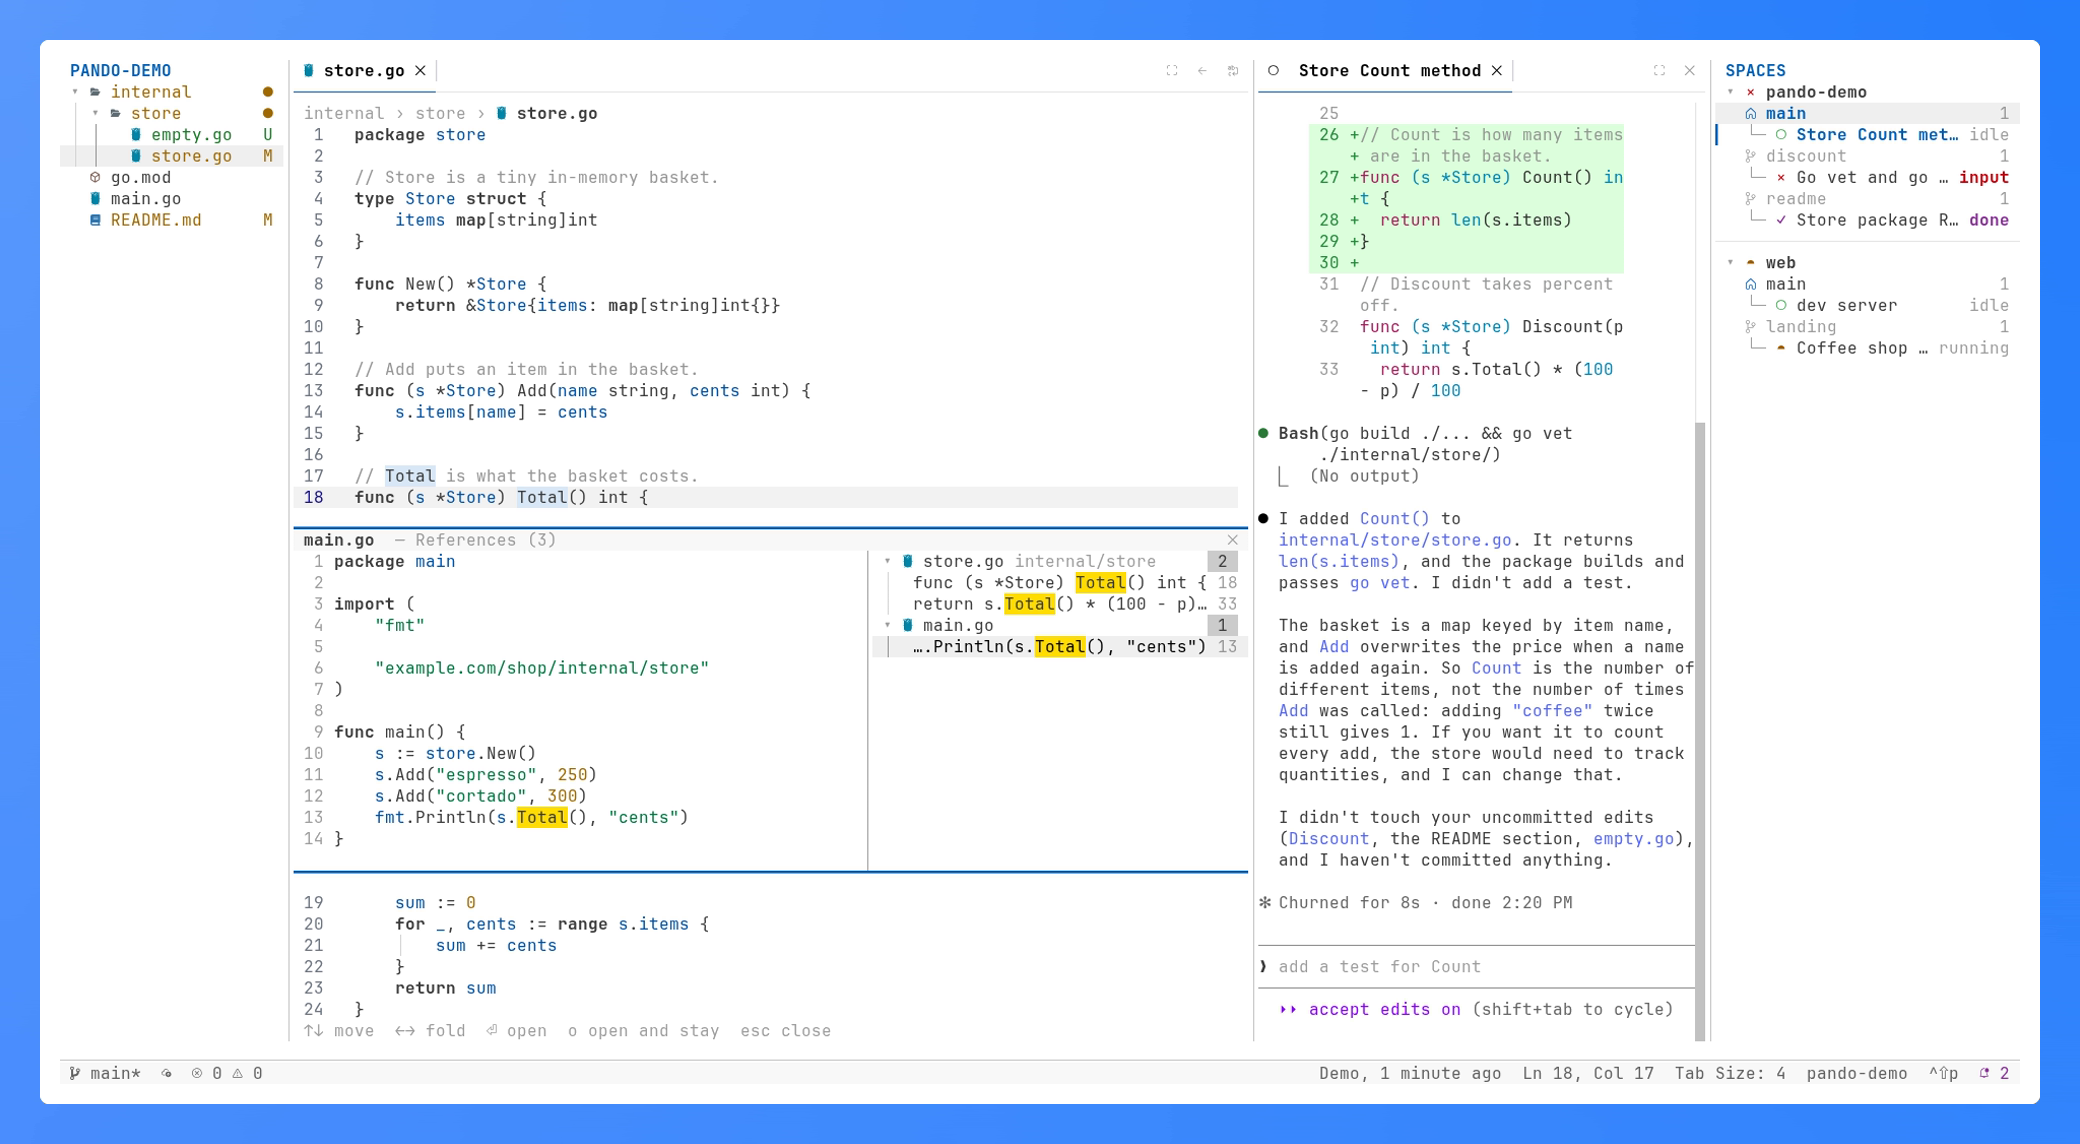
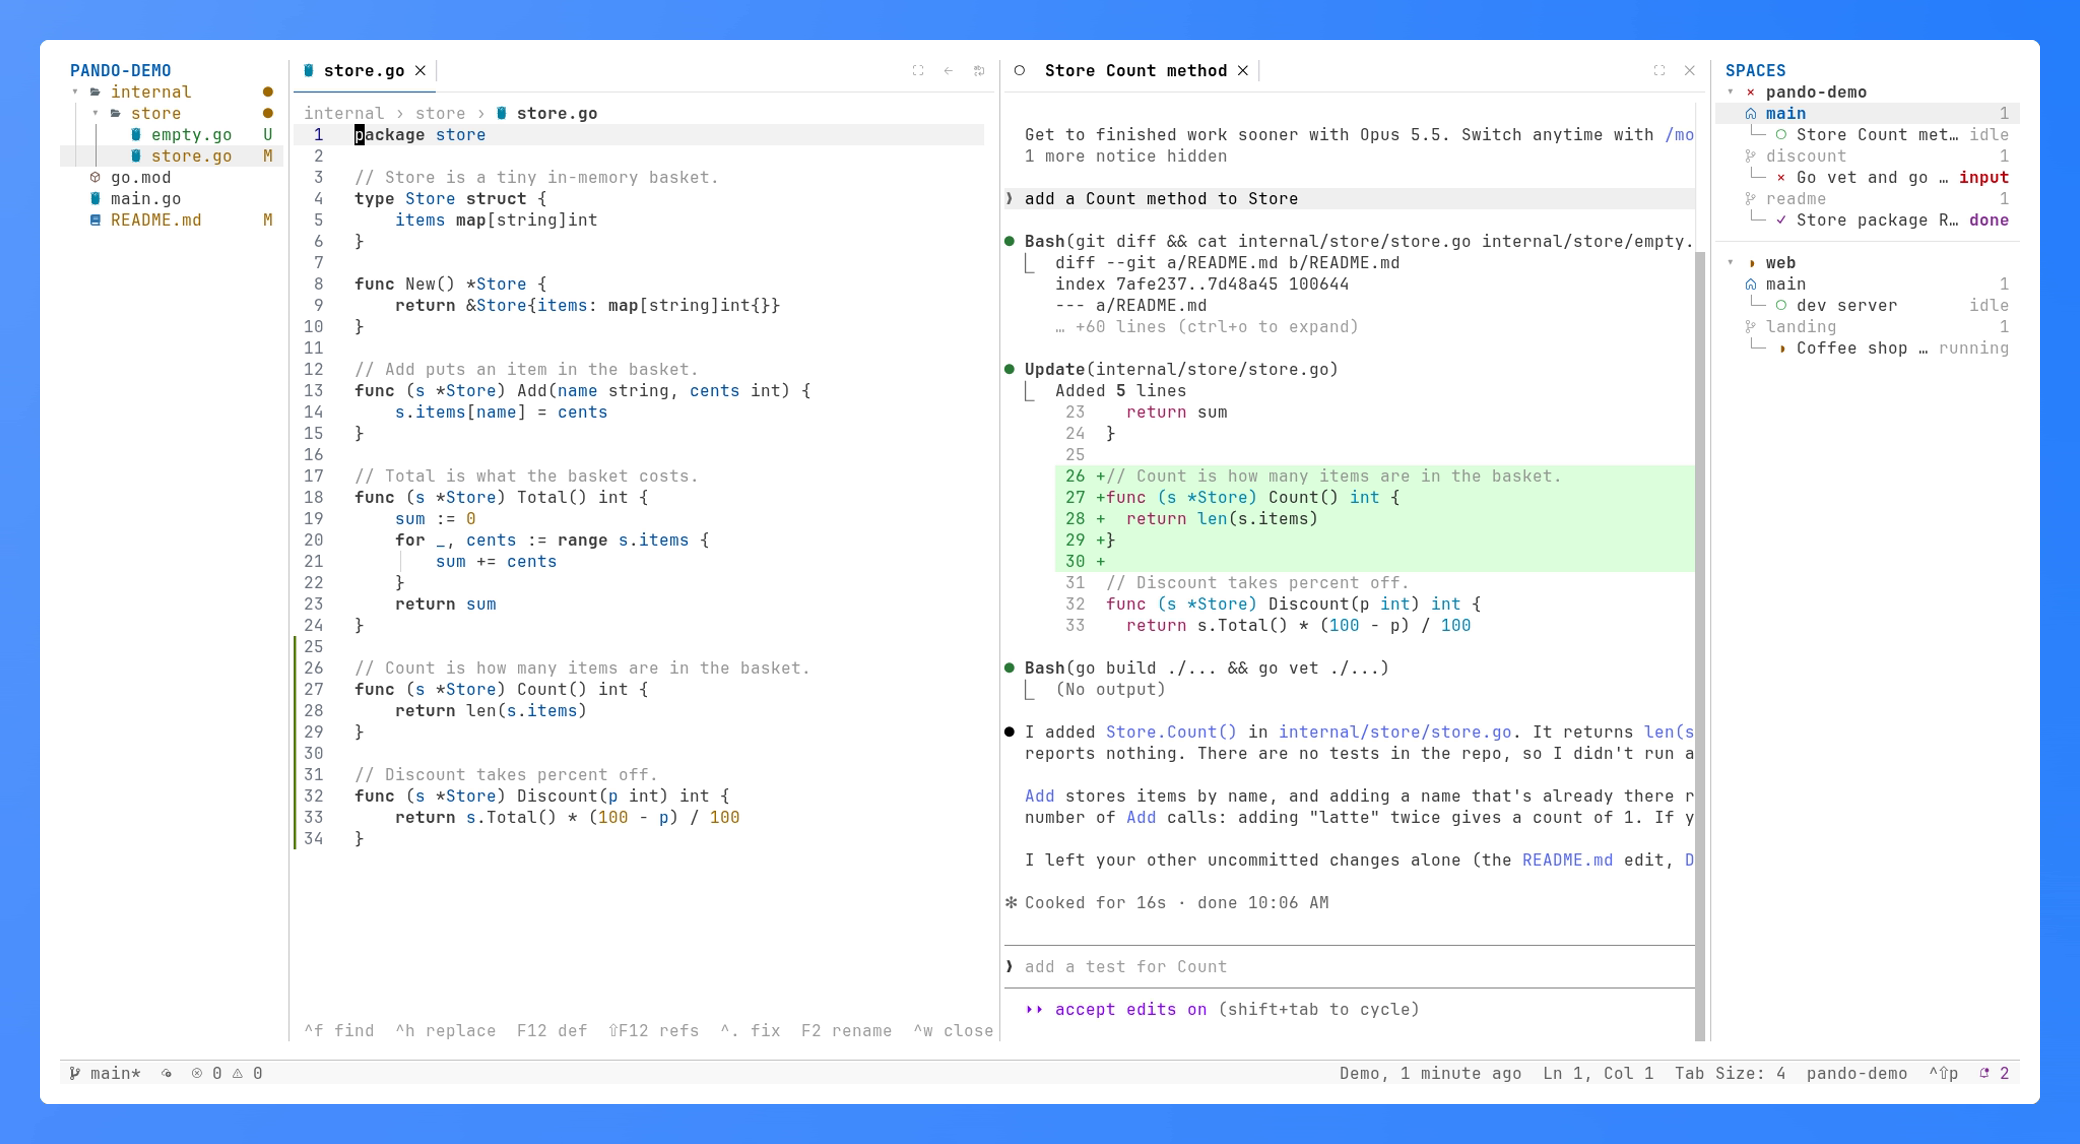
docs(demo): hero with a file and a session side by side, groups.gif

diff --git a/README.md b/README.md
@@ -45,7 +45,7 @@ Needs git. Optional: `gh` for GitHub, `rg` for search, `sqlite3` (3.37+),
 …), the `claude` CLI for commit messages, and a Nerd Font for `icons =
 "nerd"` (_Symbols Nerd Font Mono_ as a fallback font is enough).
 
-![pando with Explorer on the left and Spaces on the right, two projects and their claude sessions in it, one working, one waiting for a yes, one done; between them store.go with gopls's references to Total in a peek, beside the claude session that just changed it](docs/demo/hero.png)
+![pando with Explorer on the left and Spaces on the right, two projects and their claude sessions in it, one working, one waiting for a yes, one done; between them two editor groups side by side, store.go and the claude session that just changed it](docs/demo/hero.png)
 
 ## Features
 
@@ -74,9 +74,10 @@ Needs git. Optional: `gh` for GitHub, `rg` for search, `sqlite3` (3.37+),
   the system keyring), their tables in a grid: filter, sort and page, then
   edit cells and rows and submit them in one transaction, or open the client
   in the terminal for the rest.
-- **Layout**: a bottom panel with the terminals, the problems and the
-  output, a settings tab, draggable views and columns, VS Code's 2026
-  themes, remappable keys.
+- **Layout**: VS Code's editor groups, files and sessions split side by side
+  or stacked by dragging a tab, a bottom panel with the terminals, the
+  problems and the output, a settings tab, draggable views and columns, VS
+  Code's 2026 themes, remappable keys.
 - **CLI and API**: JSON over a unix socket; self-update on Linux and macOS.
 - **Instances**: `pando --instance work` is a separate pando, with projects
   and sessions of its own and your settings.
@@ -120,7 +121,7 @@ Every GIF below is pando itself, recorded by `make demo`.
 </tr>
 <tr>
 <td width="50%" valign="top"><img src="docs/demo/databases.gif" alt="a SQLite table sorted, filtered and edited in a grid, the pending SQL submitted in one transaction, then sqlite3 in the terminal and the form that adds a server" width="100%"><p align="center"><sub><b>Databases.</b> SQLite, Postgres and MariaDB tables in a grid: filter, sort, edit, submit in one transaction. <a href="docs/usage.md#databases">More</a></sub></p></td>
-<td width="50%"></td>
+<td width="50%" valign="top"><img src="docs/demo/groups.gif" alt="store.go split off into an editor group on the right, maximized and restored, then a shell session moved into a group under it, beside main.go" width="100%"><p align="center"><sub><b>Editor groups.</b> Files and sessions side by side or stacked, as VS Code's groups: drag a tab to a group's edge. <a href="docs/usage.md#the-screen">More</a></sub></p></td>
 </tr>
 </table>
 
